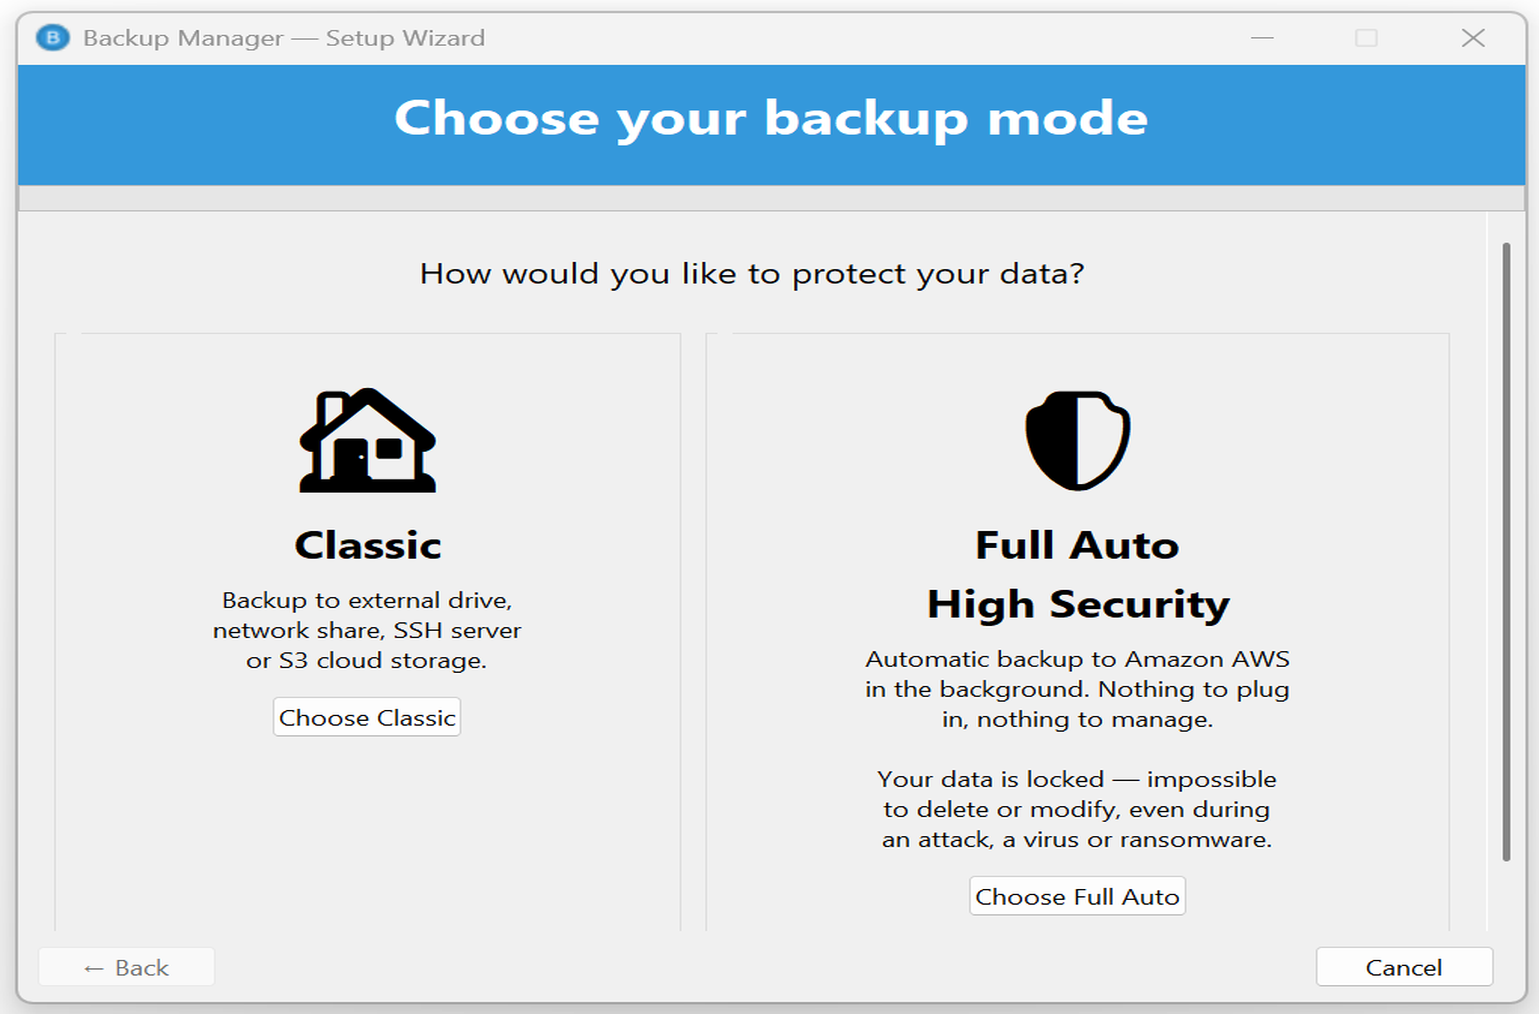
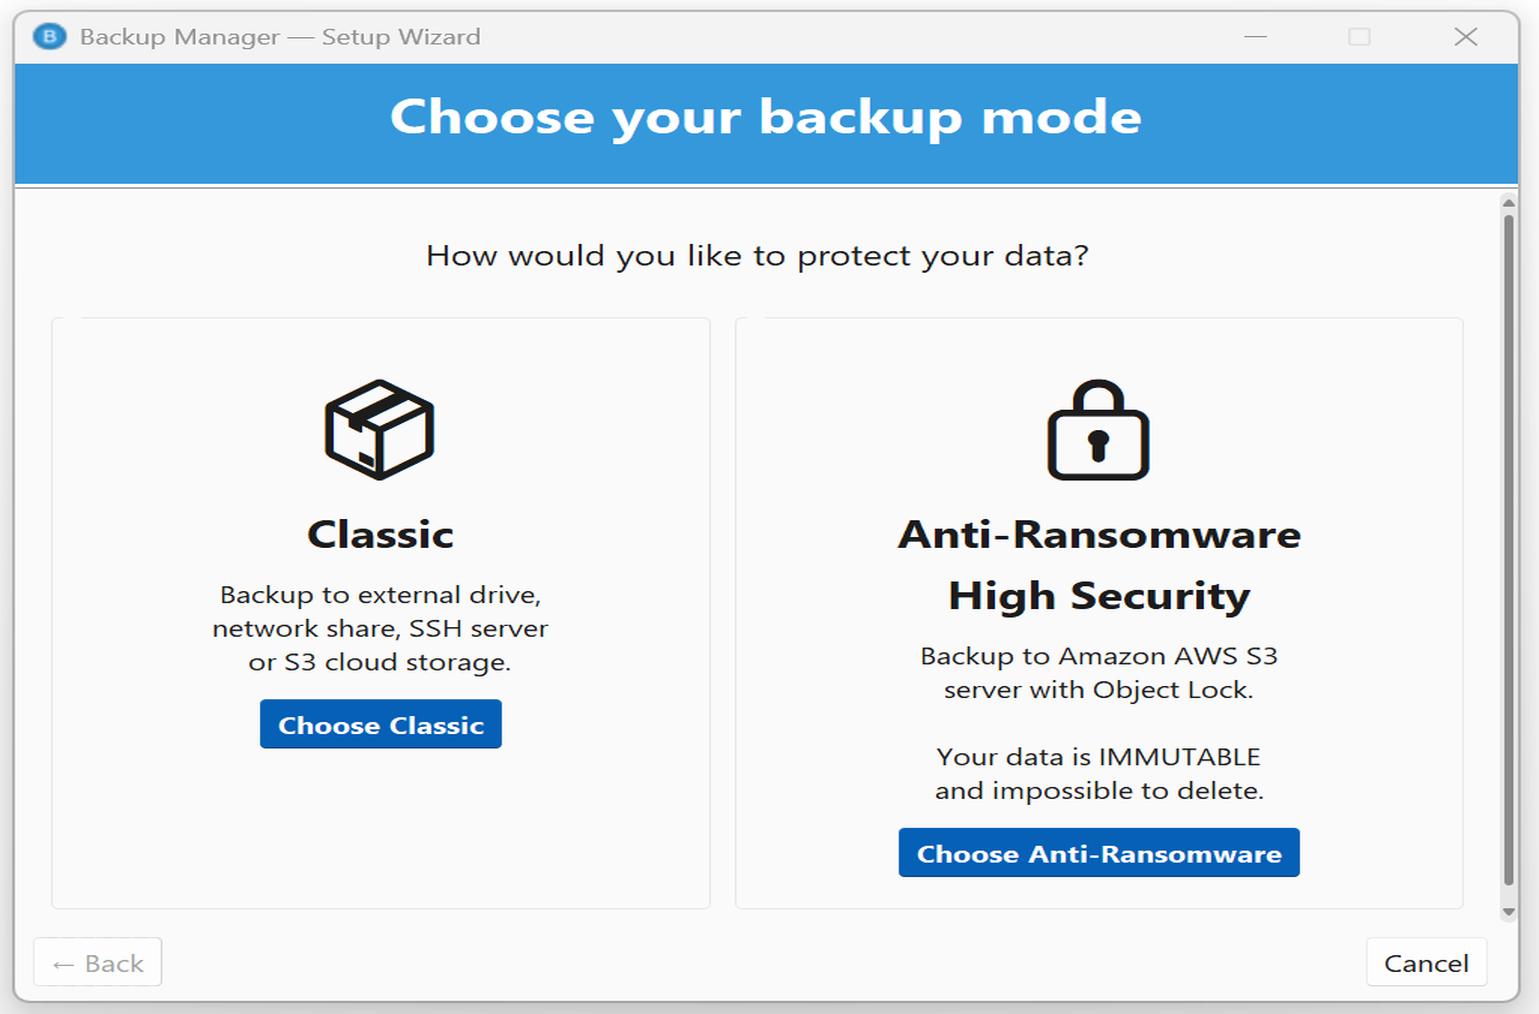
docs(readme): rework hero around Classic / Anti-Ransomware profiles
Rewrite the lead to introduce both profile types up front rather than
leading with the anti-ransomware angle only. The Anti-Ransomware bullet
now names Object Lock as "the technology used in banking" — a concrete
reference point for non-technical readers. Drop the separate lock /
auto-cleanup / AWS-handling bullets that duplicated the profile
description.

Also:
- Refresh wizard_mode_choice.png to show the new wizard (📦 / 🔒
  emojis, Anti-Ransomware + High Security title, "Your data is
  IMMUTABLE" copy).
- Bump the tests badge, the testing paragraph, and the project-structure
  tree to 1429 passing tests.
- Rename the General tab description to match the new immutable
  per-profile type badge ("Profile name, type badge (Classic /
  Anti-Ransomware)...").
- Adjust the app.py description ("Main window with sidebar (mode per
  profile)") — there is no global mode selector anymore.

diff --git a/README.md b/README.md
@@ -3,16 +3,19 @@
 [![CI](https://github.com/loicata/backup-manager/actions/workflows/ci.yml/badge.svg)](https://github.com/loicata/backup-manager/actions/workflows/ci.yml)
 [![License: GPL v3](https://img.shields.io/badge/License-GPLv3-blue.svg)](https://www.gnu.org/licenses/gpl-3.0)
 [![Python 3.12+](https://img.shields.io/badge/python-3.12%2B-blue.svg)](https://www.python.org/downloads/)
-[![Tests](https://img.shields.io/badge/tests-1407%20passed-brightgreen.svg)](#testing)
+[![Tests](https://img.shields.io/badge/tests-1429%20passed-brightgreen.svg)](#testing)
 [![Coverage](https://img.shields.io/badge/coverage-85%25-brightgreen.svg)](#testing)
 [![Platform](https://img.shields.io/badge/platform-Windows%2010%2F11-0078D6.svg)](https://github.com/loicata/backup-manager/releases)
 
-## 🛡 Backups a ransomware cannot erase.
+## 🛡 Backup Manager
 
-✅ **Undeletable** — locked on AWS S3 for 4 months to 7 years. Not even you.
-✅ **No AWS knowledge needed** — the 3-step wizard creates your bucket and locks it.
-✅ **100 % automatic** — daily backups, email alerts, integrity checks, auto-cleanup.
-✅ **Free and open-source** — no subscription, no account, no data sold.
+**📦 Classic profiles** — backup to external drive, network share, SSH server, or S3 cloud storage.
+**🔒 Anti-Ransomware profiles** — backup to Amazon AWS S3 with Object Lock, **the technology used in banking**. Your data becomes **impossible to delete**, even by ransomware.
+
+✅ **100 % automatic** — daily backups, email alerts, integrity checks
+✅ **No AWS knowledge needed** — the wizard creates and locks everything
+✅ **Free and open-source** — no subscription, no account
+✅ **Windows 10 / 11** — one-click MSI installer
 
 ### ⬇ **[Download for Windows 10 / 11](https://github.com/loicata/backup-manager/releases/latest)**
 
@@ -80,7 +83,7 @@ Cost shown in the wizard before you commit (10 GB → 800 GB, based on AWS S3 Gl
 | Tab | Description |
 |---|---|
 | **Run** | Launch a backup, watch progress and logs |
-| **General** | Mode, profile name, source folders, exclusions, bandwidth |
+| **General** | Profile name, type badge (Classic / Anti-Ransomware), source folders, exclusions, bandwidth |
 | **Storage / Mirror 1 / Mirror 2** | Primary and up to 2 mirror destinations |
 | **Encryption** | AES-256-GCM toggle per destination |
 | **Schedule** | Frequency, time, auto-retry, periodic verification |
@@ -166,7 +169,7 @@ pytest                                      # full suite
 pytest --cov=src --cov-report=term-missing  # with coverage
 ```
 
-**Current status:** 1407 tests, 85 % coverage, 0 failures.
+**Current status:** 1429 tests, 85 % coverage, 0 failures.
 
 CI (GitHub Actions, every push): Black formatting, Ruff linting (Ubuntu), full pytest with coverage enforcement (Windows, Python 3.12 + 3.13).
 
@@ -219,9 +222,9 @@ backup-manager/
 │   ├── notifications/           # SMTP email with HTML reports
 │   └── ui/                      # Tkinter GUI (Sun Valley theme)
 │       ├── wizard.py            # Classic (3 steps) + Pro (11 steps) wizard
-│       ├── app.py               # Main window with mode selector
+│       ├── app.py               # Main window with sidebar (mode per profile)
 │       └── tabs/                # Tab implementations
-├── tests/                       # 1407 tests (unit + integration)
+├── tests/                       # 1429 tests (unit + integration)
 ├── CHANGELOG.md
 ├── requirements.txt
 └── pyproject.toml
